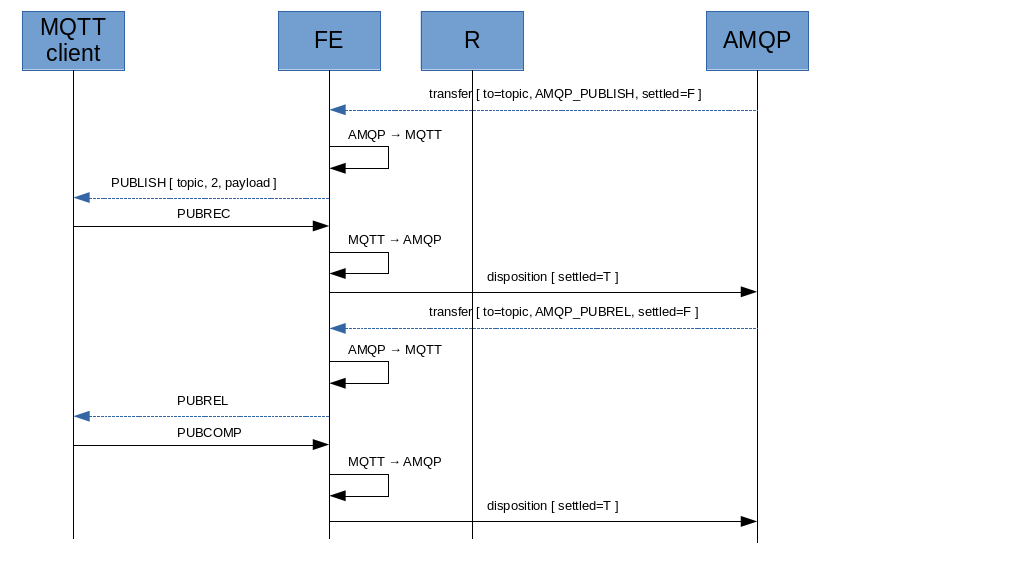
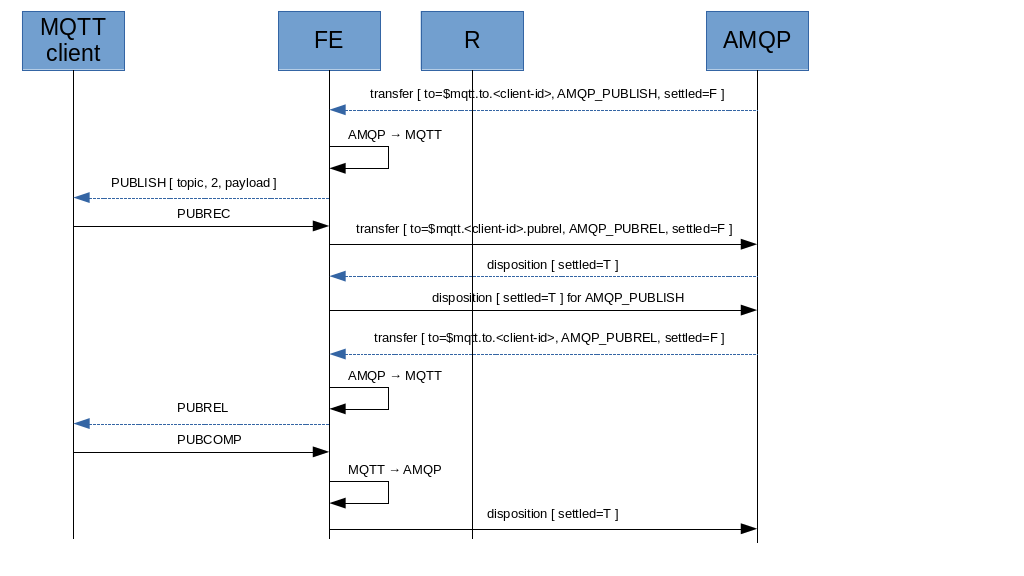
Updated QoS level 2 publishing from AMQP network to MQTT client

diff --git a/mqtt-over-amqp/docs/operations_publish.md b/mqtt-over-amqp/docs/operations_publish.md
@@ -64,6 +64,11 @@ The FE has an attached link with receiver role to the unique client address $mqt
 
 The FE receives published messages as _AMQP_PUBLISH_ messages (see previous paragraph).
 
+For handling QoS level 2, the FE attaches a link with sender role to the address $mqtt.[client-id].pubrel (for sending _AMQP_PUBREL_ messages). It should have QoS as AT_LEAST_ONCE so with :
+
+* rcv-settle-mode : first (0)
+* snd-settle-mode : unsettled (0)
+
 ### QoS level 0 (AT_MOST_ONCE)
 
 For QoS level 0, message is published as "unsettled" but the FE can sends immediately the disposition (with "settled") before sending the _PUBLISH_ to the remote MQTT client and without waiting for any acknowledge (of course, due to QoS level 0).
@@ -78,9 +83,11 @@ For QoS level 1, message is published as "unsettled". The FE sends the _PUBLISH_
 
 ### QoS level 2 (EXACTLY_ONCE)
 
-For QoS level 2, message is published as "unsettled". The FE sends the _PUBLISH_ to the MQTT client waiting for _PUBREC_; after receving it, FE sends the disposition (with "settled"). The first step in the acknowledge process ends and the AMQP side starts the next step sending an _AMQP_PUBREL_ message as "unsettled". The FE sends the corresponding _PUBREL_ to the MQTT client waiting for _PUBCOMP_; after receiving it, FE sends the disposition (with "settled").
+For QoS level 2, message is published as "unsettled". The FE sends the _PUBLISH_ to the MQTT client waiting for _PUBREC_; after receving it, FE doesn't settle the original _AMQP_PUBLISH_ message yet. Instead, FE sends an _AMQP_PUBREL_ message to the AMQP side. The first phase of QoS 2 exchange isn't finished yet because we need to be sure that before settling the original _AMQP_PUBLISH_ message, the _AMQP_PUBREL_ is available to the AMQP network. If something goes wrong, the _AMQP_PUBLISH_ (not yet settled) is resent or the exchange restarts from sending the _AMQP_PUBREL_.
+So, the FE waits for disposition (with "settled") from the _AMQP_PUBREL_ and then sends the disposition (with "settle") for the original _AMQP_PUBLISH_ message. The first phase of QoS 2 exchange is ended. Whatever it will happen, the exchange will restart from the _AMQP_PUBREL_.
+In the second phase, the AMQP side publishes the _AMQP_PUBREL_ to the FE, which sends _PUBREL_ to the MQTT client and receives the _PUBCOMP_ for then sending disposition (with "settled") to the AMQP side (for the _AMQP_PUBREL_).
 
-**AMQP_PUBREL** : sent to the unique client address $mqtt.to.[client-id]
+**AMQP_PUBREL** : sent to the unique client address $mqtt.[client-id].pubrel
 
 | DATA | TYPE | VALUE | FROM |
 | ---- | ---- | ----- | ---- |
